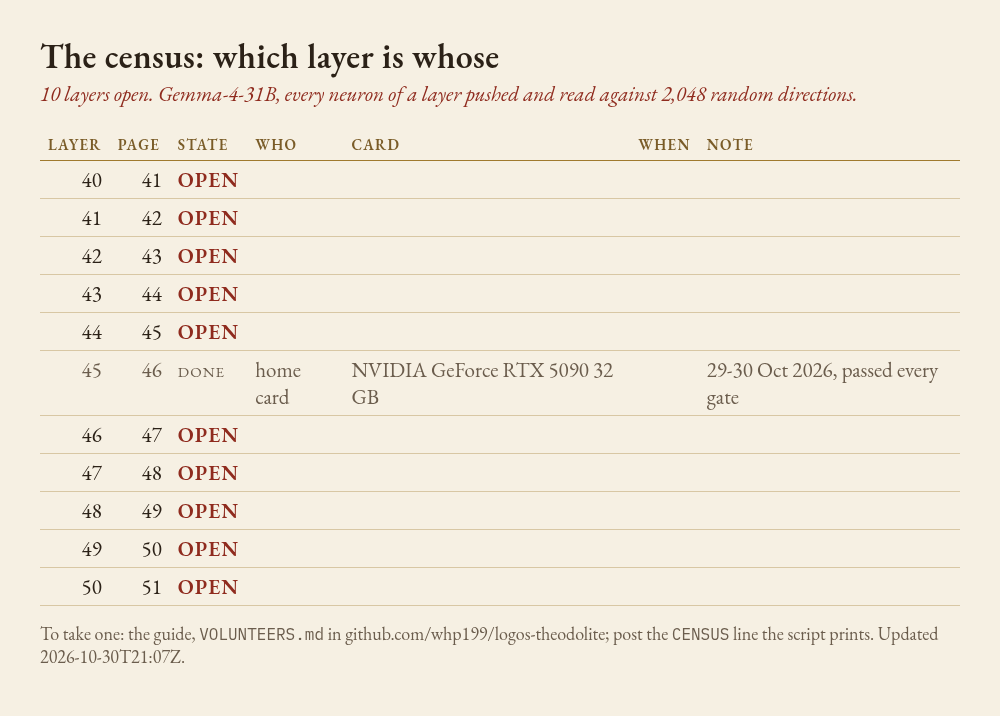
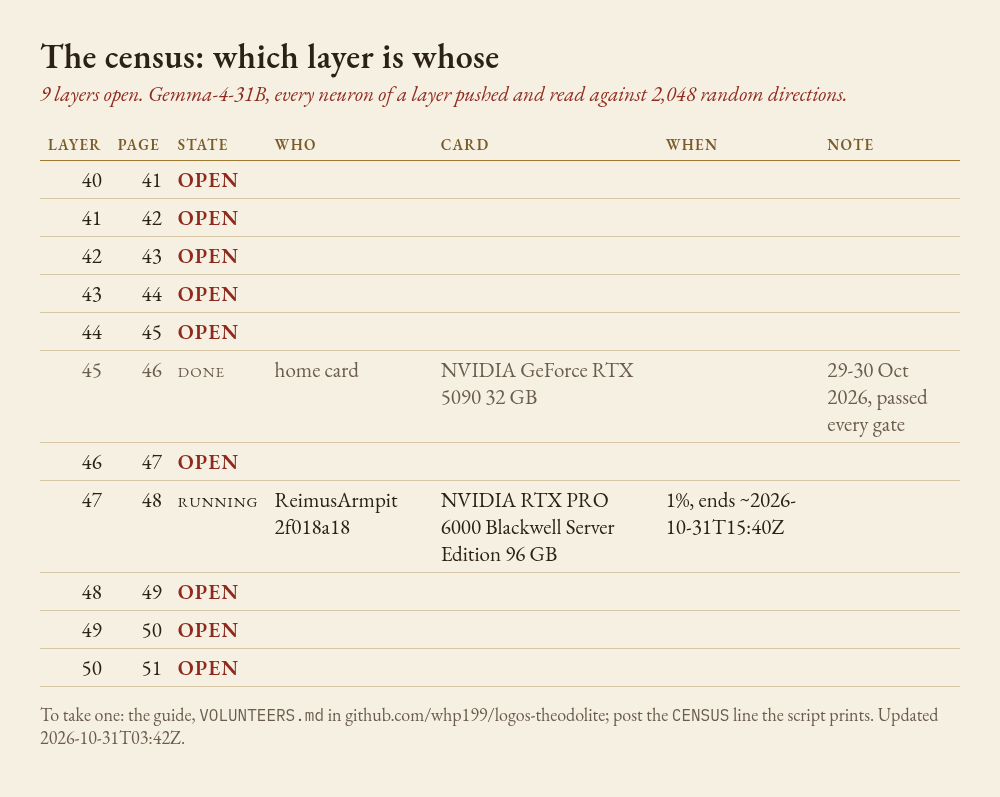
Board: layer 47 running on an RTX PRO 6000 Blackwell (ReimusArmpit, claim 2f018a18), and card names kept to 64 characters
Its RESERVE line was not among the issue's comments, so it was entered from the START line's layer, claim and card.

diff --git a/scripts/census_board.py b/scripts/census_board.py
@@ -153,7 +153,7 @@ def apply(board: Dict[str, Any], line: Dict[str, Any], via: str, who: Optional[s
         if mine:
             return f"refused: claim {code} holds layer {mine[0]['layer']} already: one layer a claim"
         board["claims"].append({"code": code, "layer": layer, "name": clean(line.get("name") or who or "anon", 24),
-                                "card": clean(line.get("card"), 48), "kit": line.get("kit"), "via": via, "at": t,
+                                "card": clean(line.get("card"), 64), "kit": line.get("kit"), "via": via, "at": t,
                                 "state": "reserved", "events": [{**ev, "verb": verb}]})
         return f"L{layer} reserved by {code} ({clean(line.get('name') or who or 'anon', 24)}, {clean(line.get('card'), 48)})"
     if c is None or c["layer"] != layer:
@@ -175,7 +175,7 @@ def apply(board: Dict[str, Any], line: Dict[str, Any], via: str, who: Optional[s
             c["started_at"] = t
         c["bits"] = clean(line.get("bits"), 8)
         if line.get("card"):
-            c["card"] = clean(line["card"], 48)
+            c["card"] = clean(line["card"], 64)
         return f"L{layer} {code} running ({c['bits'] or '?'} bits) until at least {iso(holds_until(c))}"
     if verb == "PROGRESS":
         if c["state"] == "reserved":

diff --git a/volunteers/BOARD.md b/volunteers/BOARD.md
@@ -11,9 +11,9 @@ Kit 1 (census-kit-1). How to take a layer: [VOLUNTEERS.md](https://github.com/wh
 | 44 | 45 | OPEN |  |  |  |  |
 | 45 | 46 | done | home card | NVIDIA GeForce RTX 5090 32 GB |  | 29-30 Oct 2026, passed every gate |
 | 46 | 47 | OPEN |  |  |  |  |
-| 47 | 48 | OPEN |  |  |  |  |
+| 47 | 48 | running | ReimusArmpit 2f018a18 | NVIDIA RTX PRO 6000 Blackwell Server Edition 96 GB | 1%, ends ~2026-10-31T15:40Z |  |
 | 48 | 49 | OPEN |  |  |  |  |
 | 49 | 50 | OPEN |  |  |  |  |
 | 50 | 51 | OPEN |  |  |  |  |
 
-Holds: 36 h after RESERVE to START; then the run's end time (from PROGRESS) plus 24 h; at most 10 days in all. Updated 2026-10-30T21:07Z.
+Holds: 36 h after RESERVE to START; then the run's end time (from PROGRESS) plus 24 h; at most 10 days in all. Updated 2026-10-31T03:42Z.
